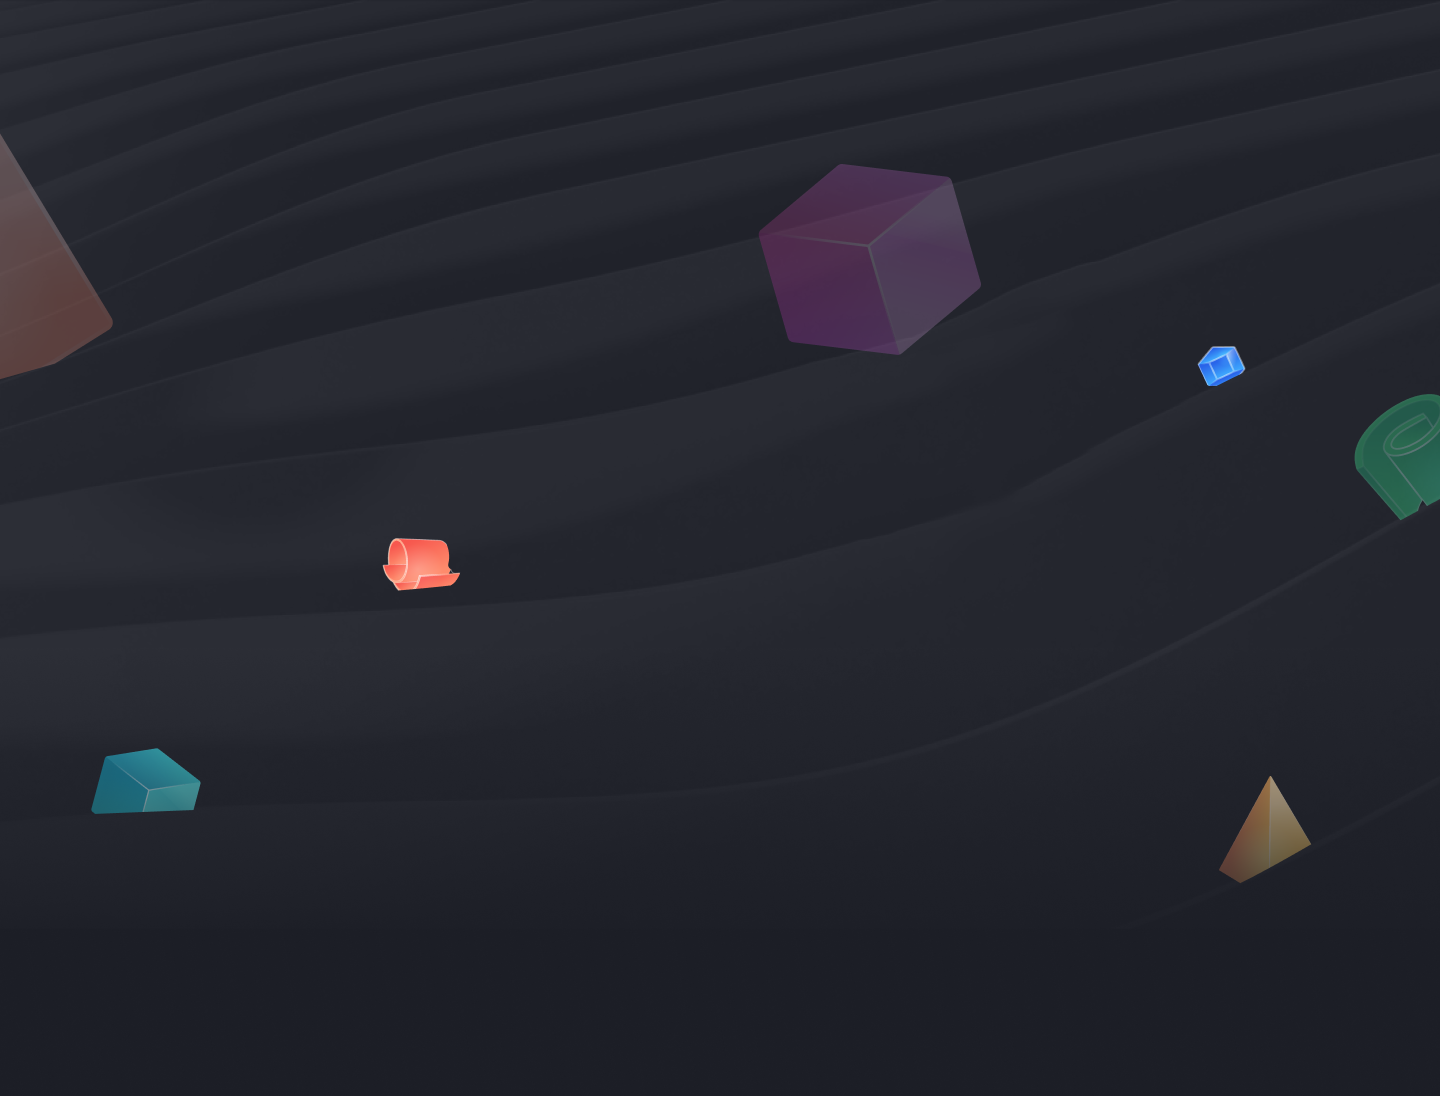
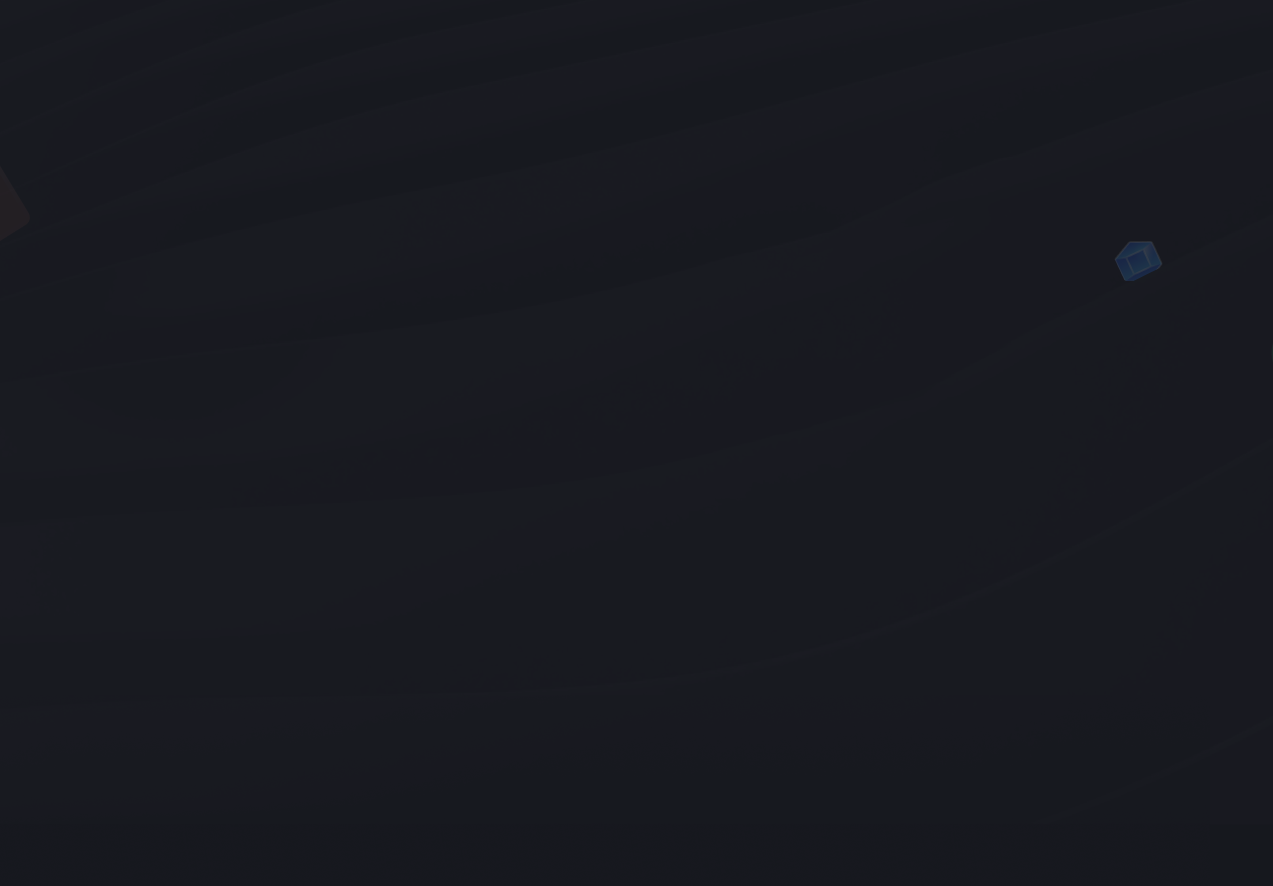
feat: implement new design

diff --git a/components/sections/bridgesection.tsx b/components/sections/bridgesection.tsx
@@ -24,7 +24,6 @@ import {
 } from "@/components/ui/form";
 import { RiLoopLeftFill } from "react-icons/ri";
 import { Input } from "@/components/ui/input";
-import { ArrowLeftRightIcon, ExternalLink } from "lucide-react";
 import { useEffect, useState } from "react";
 import Avail from "../wallets/avail";
 import Eth from "../wallets/eth";
@@ -42,6 +41,7 @@ import { parseError } from "@/utils/parseError";
 import { useLatestBlockInfo } from "@/stores/lastestBlockInfo";
 import BigNumber from "bignumber.js";
 import { getMerkleProof } from "@/services/api";
+import { badgeVariants } from "../ui/badge";
 const formSchema = z.object({
   fromAmount: z.number().or(z.string()),
   toAddress: z.string(),
@@ -49,13 +49,12 @@ const formSchema = z.object({
 
 export default function BridgeSection() {
   const account = useAccount();
-  const { fromChain } = useCommonStore();
+  const { fromChain, setFromChain, toChain, setToChain } = useCommonStore();
   const { selected } = useAvailAccount();
   const [ethBalance, setEthBalance] = useState<GLfloat | undefined>(undefined);
   const [availBalance, setAvailBalance] = useState<number | undefined>(undefined);
   const [transactionInProgress, setTransactionInProgress] = useState<boolean>(false);
   const { initEthToAvailBridging, initAvailToEthBridging } = useBridge()
-  const { avlHead, ethHead } = useLatestBlockInfo()
 
   const form = useForm<z.infer<typeof formSchema>>({
     resolver: zodResolver(formSchema),
@@ -154,9 +153,13 @@ export default function BridgeSection() {
     <div className="flex md:flex-row flex-col h-full md:space-x-[2vw] max-md:space-y-[2vw]">
       <div
         id="bridge"
-        className="section_bg flex-1 text-white p-4 w-[85vw] md:w-[40vw] lg:w-[50w] xl:w-[40w] "
+        className="section_bg flex-1 text-white p-4 w-[90vw] md:w-[45vw] lg:w-[45vw] xl:w-[30vw] 2xl:w-[25w]"
       >
-        <div className="flex flex-row pb-[4vh] items-center justify-between"></div>
+        <div className="flex flex-row pb-[4vh] items-center justify-between">
+          <h1 className="font-ppmori items-center flex flex-row space-x-2 text-white text-opacity-80 text-2xl w-full ">
+            <p className="font-ppmori">Bridge</p>
+          </h1>
+        </div>
         <Form {...form}>
           <form
             onSubmit={form.handleSubmit(onSubmit)}
@@ -172,43 +175,74 @@ export default function BridgeSection() {
                     <FormLabel className="font-thicccboiregular !text-lg flex flex-row justify-between items-end  ">
                       <span className="font-ppmori flex flex-row items-center space-x-2">
                         <p>From</p>
-                        <span
-                          className={`${fromChain === Chain.AVAIL
-                            ? "text-[#3EB6F8]"
-                            : "text-[#8C8C8C]"
-                            } text-sm font-mono`}
-                        >
-                          ({fromChain})
+                        <div
+          className={badgeVariants({ variant: "avail" })}
+         
+        ><img src={`/images/${fromChain}small.png`}></img><p className="!text-left">{(fromChain)}</p></div>
                         </span>
-                      </span>
+
                       <div className="flex flex-row items-center justify-center ">
                         {fromChain === Chain.ETH ? <Eth /> : <Avail />}
                       </div>
                     </FormLabel>
                     <FormControl>
                       <>
-                        <Input
+                      <div className="card_background !rounded-xl p-2 flex flex-row items-center justify-between">
+                      <input
+                      className="!bg-inherit"
+                      style={{ border: 'none', background: 'none', padding: 0, margin: 0, outline: 'none' }}
                           min={0}
-                          placeholder="23423 AVAIL"
+                          placeholder="0.0"
                           {...field}
                           onChange={(event) =>
                             field.onChange(+event.target.value)
                           }
                         />
+                                  <Tabs
+          defaultValue="avail"
+          className=" flex flex-row items-center justify-center"
+        >
+         <TabsList className={`!bg-[#33384B] !border-0  `}>
+                            <TabsTrigger value="eth" onClick={()=>{
+                              setFromChain(Chain.ETH)
+                              setToChain(Chain.AVAIL)
+                            }}>
+                              <Image
+                                src="/images/eth.png"
+                                alt="eth"
+                                width={20}
+                                height={20}
+                              ></Image>
+                            </TabsTrigger>
+                            <TabsTrigger value="avail" onClick={()=>{
+                              setFromChain(Chain.AVAIL)
+                              setToChain(Chain.ETH)
+                            }}>
+                              <Image
+                                src="/images/logo.png"
+                                alt="eth"
+                                width={20}
+                                height={20}
+                              ></Image>{" "}
+                            </TabsTrigger>
+                          </TabsList>  
+                        </Tabs> 
+                      </div>
+                        
                         <div className="flex flex-row items-center justify-between">
                           <div className="flex flex-row items-end justify-start pl-1 font-ppmori ">
                             {fromChain === Chain.ETH ? (
-                              <span className="font-ppmori text-white text-opacity-70">
+                              <span className="font-ppmori flex flex-row items-center justify-center space-x-2 text-white text-opacity-70 pt-1">
                                 Balance{" "}
-                                <span className="text-[#3382E8]">
-                                {account.address ?  ( ethBalance !== undefined ? ethBalance : <RiLoopLeftFill className={`h-3 w-3 animate-spin text-[#3FB5F8]`} />) : "Connect Wallet"}   
+                                <span className="text-white font-bold mx-1">
+                                {account.address ?  ( ethBalance !== undefined ? ethBalance.toFixed(2) : <RiLoopLeftFill className={`h-4 w-4 animate-spin font-bold`} />) : "--"}  AVAIL
                                 </span>
                               </span>
                             ) : (
-                              <span className="font-ppmori text-white text-opacity-70">
+                              <span className="font-ppmori flex flex-row text-white text-opacity-70">
                                 Balance{" "}
-                                <span className="text-[#3382E8]">
-                               {selected ?  ( availBalance !== undefined ? availBalance : <RiLoopLeftFill className={`h-3 w-3 animate-spin text-[#3FB5F8]`} />) : "Connect Wallet"}   
+                                <span className="text-white font-bold mx-1">
+                               {selected ?  ( availBalance !== undefined ? availBalance.toFixed(2) : <RiLoopLeftFill className={`h-4 w-4 animate-spin font-bold`} />) : "--"}  AVAIL
                                 </span>
                               </span>
                             )}
@@ -237,7 +271,10 @@ export default function BridgeSection() {
                     <FormLabel className="font-thicccboiregular !text-lg flex flex-row justify-between items-end  ">
                       <span className="font-ppmori flex flex-row items-center space-x-2">
                         <p>To</p>
-                        <span className=" text-sm font-mono">{!fromChain}</span>
+                        <div
+          className={badgeVariants({ variant: "avail" })}
+         
+        ><img src={`/images/${toChain}small.png`}></img><p className="!text-left">{(toChain)}</p></div>
                       </span>
                       {/* this will be opposite here since it's the To feild*/}
                       {fromChain === Chain.ETH ? <Avail /> : <Eth />}
@@ -277,7 +314,7 @@ export default function BridgeSection() {
                       </div>
                       <div className="flex flex-row items-center justify-center ">
                         <button className="font-thicccboisemibold text-[#3FB5F8] text-sm">
-                          + Add Address
+                          + Paste Address
                         </button>
                       </div>
                     </div>
@@ -293,7 +330,7 @@ export default function BridgeSection() {
               disabled={transactionInProgress}
             >
               {transactionInProgress ? 'Transaction in progress' : 'Initiate Transaction'}
-              <ArrowLeftRightIcon className="ml-2 w-4 h-4" />
+             
             </Button>
           </form>
         </Form>
@@ -304,12 +341,15 @@ export default function BridgeSection() {
       >
         <div className="flex flex-row pb-[2vh] items-center justify-between">
           <h1 className="font-ppmori items-center flex flex-row space-x-2 text-white text-opacity-80 text-2xl w-full ">
-            <p className="font-thicccboibold">Transactions</p>
+            <span className="relative"> 
+            <p className="font-ppmori">Transactions</p>
+            </span>
+           
             <RiLoopLeftFill className={`h-5 w-5 text-[#3FB5F8]`} />
           </h1>
         </div>
         <Tabs defaultValue="pending" className="w-[95%] mx-auto">
-          <TabsList className="grid w-full grid-cols-2 bg-inherit mb-4">
+          <TabsList className="grid w-full grid-cols-2 !bg-[#33384B] !border-0 mb-4">
             <TabsTrigger value="pending" className="">
               Pending
             </TabsTrigger>

diff --git a/components/ui/tabs.tsx b/components/ui/tabs.tsx
@@ -14,7 +14,7 @@ const TabsList = React.forwardRef<
   <TabsPrimitive.List
     ref={ref}
     className={cn(
-      "inline-flex h-10 items-center border-white border rounded-full border-opacity-10 justify-center bg-black p-1 text-gray-500 dark:bg-gray-800 dark:text-gray-400",
+      "inline-flex h-10 items-center border-white border rounded-xl border-opacity-10 justify-center bg-black p-1 text-gray-500 dark:bg-gray-800 dark:text-gray-400",
       className
     )}
     {...props}
@@ -29,7 +29,7 @@ const TabsTrigger = React.forwardRef<
   <TabsPrimitive.Trigger
     ref={ref}
     className={cn(
-      "inline-flex items-center justify-center whitespace-nowrap px-3 py-1.5 text-sm font-medium ring-offset-white transition-all focus-visible:outline-none focus-visible:ring-2 focus-visible:ring-gray-950 focus-visible:ring-offset-2 disabled:pointer-events-none disabled:opacity-50 data-[state=active]:bg-white data-[state=active]:bg-opacity-10 rounded-full data-[state=active]:text-gray-950 data-[state=active]:shadow-sm dark:ring-offset-gray-950 dark:focus-visible:ring-gray-300 dark:data-[state=active]:bg-gray-950 dark:data-[state=active]:text-gray-50",
+      "inline-flex items-center justify-center whitespace-nowrap px-3 py-1.5 text-sm font-medium ring-offset-white transition-all focus-visible:outline-none focus-visible:ring-2 focus-visible:ring-gray-950 focus-visible:ring-offset-2 disabled:pointer-events-none disabled:opacity-50 data-[state=active]:bg-white data-[state=active]:bg-opacity-10 rounded-xl data-[state=active]:text-white data-[state=active]:shadow-sm dark:ring-offset-gray-950 dark:focus-visible:ring-gray-300 dark:data-[state=active]:bg-gray-950 dark:data-[state=active]:text-gray-50",
       className
     )}
     {...props}

diff --git a/components/ui/badge.tsx b/components/ui/badge.tsx
@@ -4,7 +4,7 @@ import { cva, type VariantProps } from "class-variance-authority"
 import { cn } from "@/utils/tailwind"
 
 const badgeVariants = cva(
-  "inline-flex items-center rounded-full border border-gray-200 px-3 ml-2 py-[5.5px] text-sm font-semibold transition-colors focus:outline-none focus:ring-2 focus:ring-gray-950 focus:ring-offset-2 dark:border-gray-800 dark:focus:ring-gray-300 space-x-4",
+  "inline-flex items-center justify-center rounded-full border border-gray-200 px-3 ml-2 py-[5.5px] text-sm font-semibold transition-colors focus:outline-none focus:ring-2 focus:ring-gray-950 focus:ring-offset-2 dark:border-gray-800 dark:focus:ring-gray-300 space-x-2",
   {
     variants: {
       variant: {
@@ -13,7 +13,7 @@ const badgeVariants = cva(
         secondary:
           "border-transparent bg-gray-100 text-gray-900 hover:bg-gray-100/80 dark:bg-gray-800 dark:text-gray-50 dark:hover:bg-gray-800/80",
           avail:
-          "border-transparent bg-[#3A3E4A]  text-white  dark:bg-gray-800 dark:text-gray-50 hover:bg-gray-900",
+          "border-transparent space-x-1 bg-[#3A3E4A]  text-white  dark:bg-gray-800 dark:text-gray-50 hover:bg-gray-900",
         destructive:
           "border-transparent bg-red-500 text-gray-50 hover:bg-red-500/80 dark:bg-red-900 dark:text-gray-50 dark:hover:bg-red-900/80",
         outline: "text-gray-950 dark:text-gray-50",

diff --git a/components/ui/header.tsx b/components/ui/header.tsx
@@ -10,15 +10,15 @@ export default function NavBar() {
   const {setFromChain} = useCommonStore()
   
   return (
-    <header className="absolute bg-[#191D24] w-full top-0 !z-50 flex flex-row justify-between items-center py-4 px-8 border-b border-gray-700">
-      <div className="flex items-center space-x-4">
+    <header className="absolute  w-full top-0 !z-50 flex flex-row justify-between items-center py-4 px-8 ">
+      <div className=" space-x-4 w-screen flex flex-row items-center justify-center">
         <img
           alt="Avail logo"
           className="h-8"
           height="40"
           src="/images/nav.svg"
         /> 
-          <Tabs
+          {/* <Tabs
           defaultValue="avail"
           className=" flex flex-row items-center justify-center"
         >
@@ -44,13 +44,7 @@ export default function NavBar() {
                               ></Image>{" "}
                             </TabsTrigger>
                           </TabsList>  
-                        </Tabs> 
-      </div>
-      <div className="flex-row flex items-center space-x-4">
-     
-        <a className="text-gray-400 hover:text-[#3EB6F8] text-sm" href="#">
-         What is Avail?
-        </a>
+                        </Tabs>  */}
       </div>
     </header>
   );

diff --git a/components/ui/chainLabel.tsx b/components/ui/chainLabel.tsx
@@ -11,23 +11,23 @@ function ChainLabel({ chain }: ChainLabelProps) {
         chain === Chain.ETH ? (
             <p className="flex flex-row space-x-1">
                 {" "}
-                <Image
-                    src="/images/eth.png"
+                <img
+                    src="/images/ETHEREUMsmall.png"
                     alt="eth"
-                    width={18}
-                    height={14}
-                ></Image>
+                    className="object-contain"
+                  
+                ></img>
                 <p>ETH</p>
             </p>
         ) : (
             <p className="flex flex-row space-x-1">
                 {" "}
-                <Image
-                    src="/images/logo.png"
+                <img
+                    src="/images/AVAILsmall.png"
                     alt="avail"
-                    width={16}
-                    height={1}
-                ></Image>
+                    className="object-contain"
+                 
+                ></img>
                 <p>AVAIL</p>
             </p>
         )

diff --git a/components/sections/latestransactionsection.tsx b/components/sections/latestransactionsection.tsx
@@ -99,11 +99,12 @@ export default function LatestTransactions(props: { pending: boolean }) {
 
                     <br />
                   </TableCell>
-                  <TableCell>
+                  <TableCell className="text-right items-end">
                     {txn.status === "READY_TO_CLAIM" ? (
                       <>
                         <Button
                           variant="primary"
+                          className="!px-4 !py-0"
                           onClick={() =>
                             onSubmit(
                               txn.sourceChain,
@@ -121,7 +122,7 @@ export default function LatestTransactions(props: { pending: boolean }) {
                           }
                         >
                           {txn.status === "READY_TO_CLAIM"
-                            ? "Claim"
+                            ? "CLAIM"
                             : txn.status}
                         </Button>
                       </>

diff --git a/app/globals.css b/app/globals.css
@@ -4,7 +4,7 @@
 
 
 * body{
-    background-color: #1C1E26;
+    background-color: #15181D;
 }
 
 @layer components {
@@ -46,8 +46,8 @@
   
   .card_background{
     border: 4px solid; 
-    background: #2C303D;
-    border: 1.705px solid #303441;
+    background: #3A3F50;
+    border: 1.705px solid #404556;
     box-shadow: 0px 3.20498px 70.50948px -12.81991px rgba(5, 13, 24, 0.20);
     border-radius: 24px;
   }
@@ -62,8 +62,8 @@
 
   .section_bg {
     border: 4px solid; 
-    background: #212331;
-    border: 3.705px solid #303441;
+    background: #2B3043;
+    border: 3.705px solid #404556;
     box-shadow: 0px 3.20498px 70.50948px -12.81991px rgba(5, 13, 24, 0.20);
     border-radius: 24px;
   }

diff --git a/components/wallets/avail.tsx b/components/wallets/avail.tsx
@@ -80,11 +80,12 @@ const {selected, setSelected, selectedWallet, setSelectedWallet } = useAvailAcco
     return (
       <>
         <div
-          className={badgeVariants({ variant: "default" })}
+          className={badgeVariants({ variant: "avail" })}
           onClick={() => {
             navigator.clipboard.writeText(selected.address);
           }}
         >
+          <img src="/images/Wallet.png" className="pr-1"></img>
           {selected.address.slice(0, 6) + "..." + selected.address?.slice(-4)}
           <button
             className="ml-2"

diff --git a/app/page.tsx b/app/page.tsx
@@ -59,9 +59,15 @@ export default function Home() {
   return (
     <main className="">
       <div className="relative h-screen w-screen items-center justify-center flex flex-col">
+
         <section className="z-10 flex flex-row items-center justify-center space-x-[2vw]">
           <BridgeSection />
         </section>
+        <img
+          src="/images/bg.png"
+          className="-z-50 object-cover select-none absolute top-0 left-0 h-full  w-full"
+          alt=""
+        />
       </div>
     </main>
   );

diff --git a/components/wallets/eth.tsx b/components/wallets/eth.tsx
@@ -63,6 +63,7 @@ export default function Eth() {
                   return (
                     <>
                       <div className={badgeVariants({ variant: "avail" })}>
+                      <img src="/images/Wallet.png" className="pr-1"></img>
                         {account?.address?.slice(0, 6) +
                           "..." +
                           account?.address?.slice(-4)}
